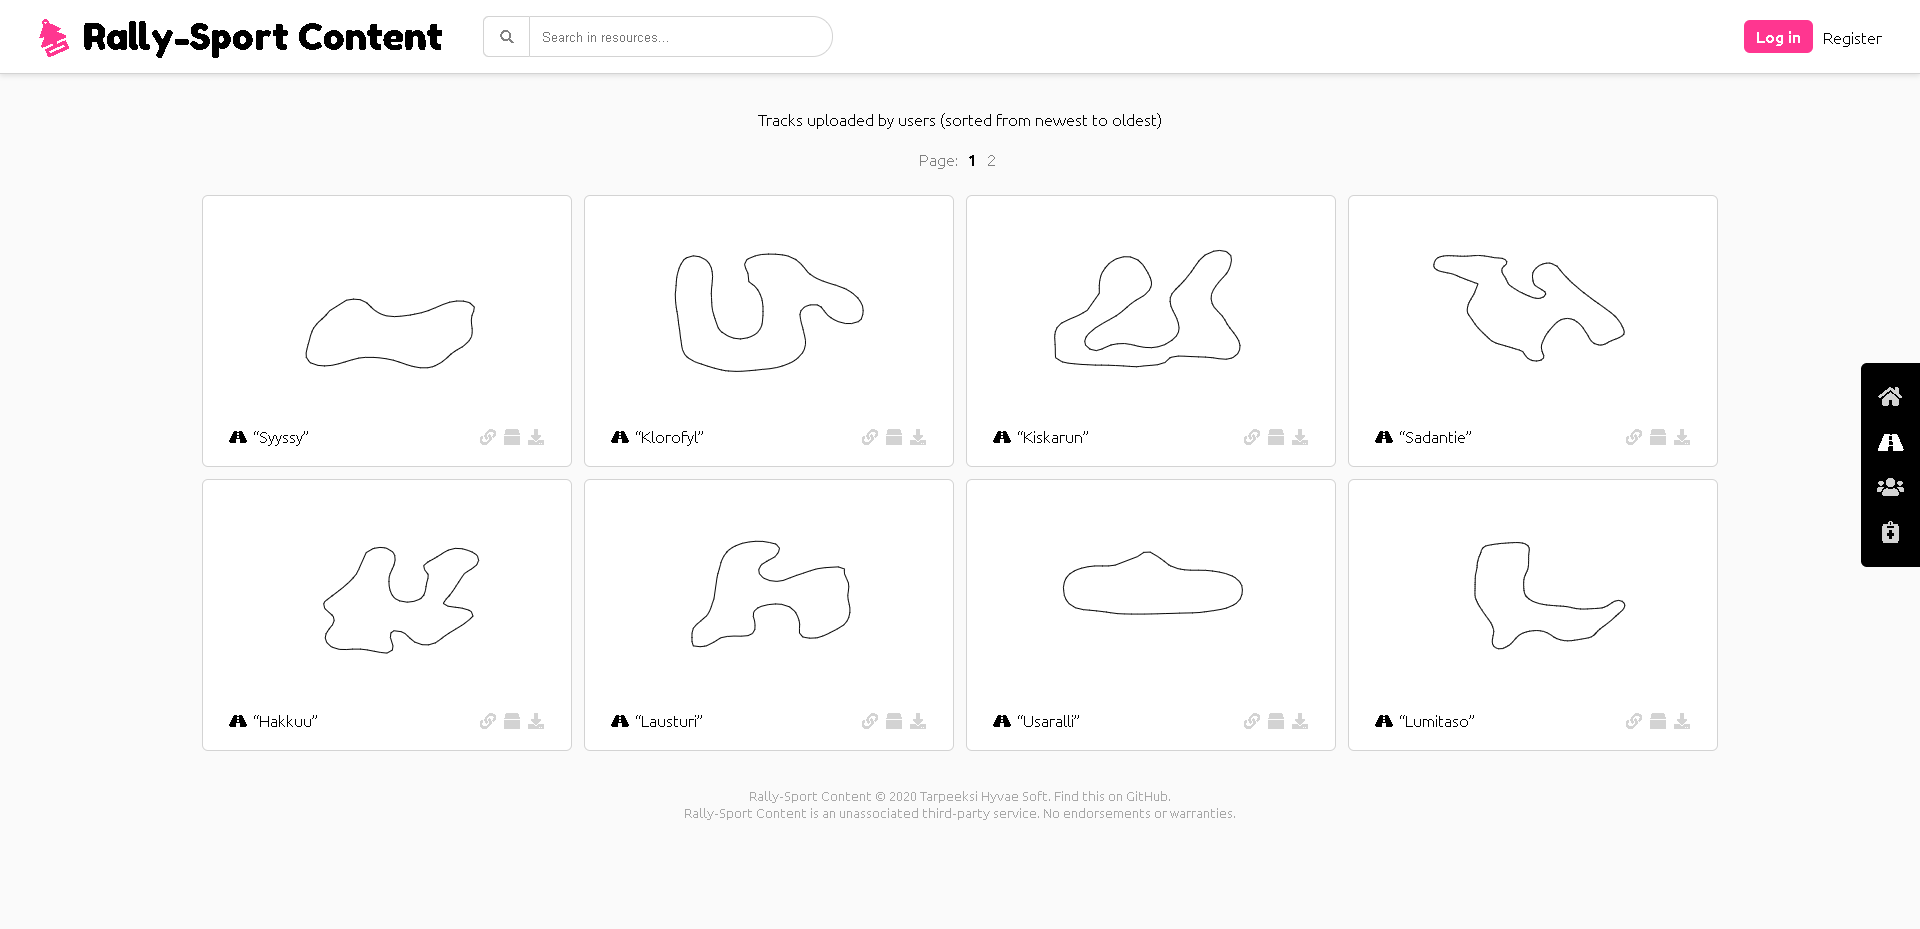
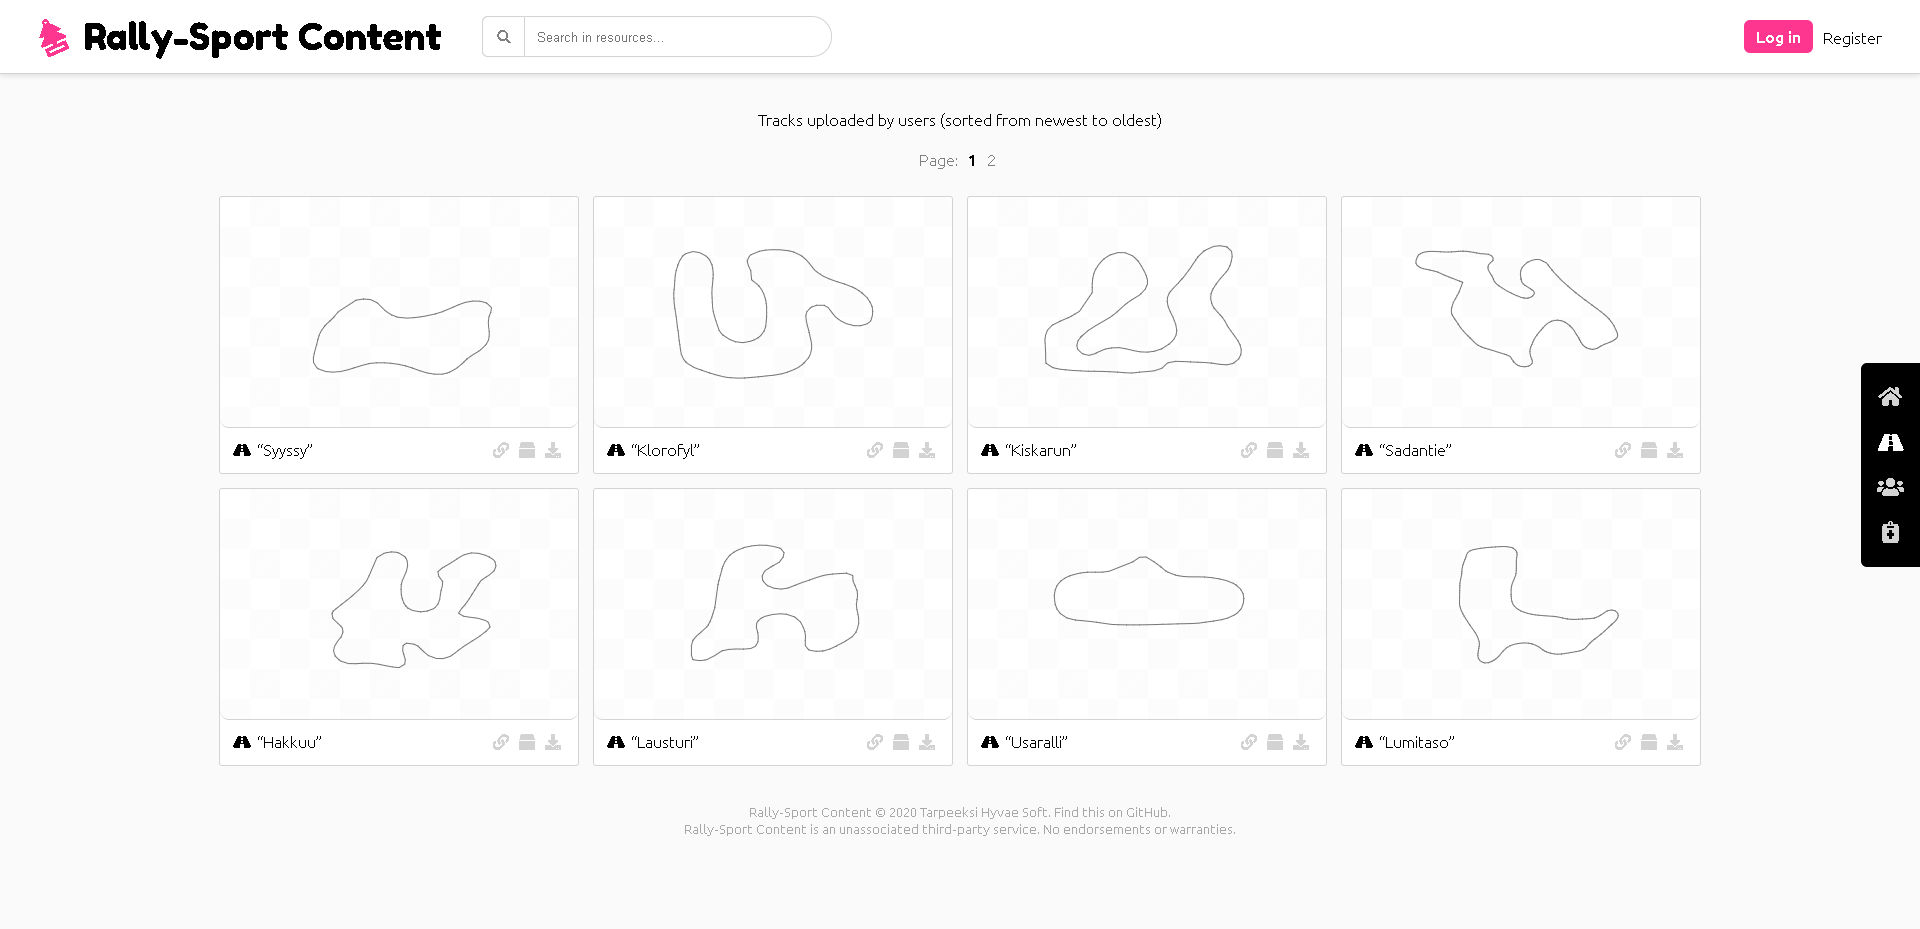
html-view: Tweak the layout some more
Resource metadata cards are made a bit more interesting to look at.

diff --git a/rallysport-content/api/common-scripts/html-page/html-page-components/css/resource-metadata.css b/rallysport-content/api/common-scripts/html-page/html-page-components/css/resource-metadata.css
@@ -1,11 +1,10 @@
 .resource-metadata
 {
-    padding: 10px 15px;
-    margin: 6px;
+    margin: 7px;
     text-align: left;
     display: inline-block;
     background-color: white;
-    border-radius: 6px;
+    border-radius: 3px;
     border: 1px solid lightgray;
 }
 
@@ -17,7 +16,7 @@
 
 .resource-metadata > .card > .info-box
 {
-    padding: 10px 0;
+    padding: 11px 2px 14px 2px;
     margin-left: 10px;
     text-align: left;
     position: relative;
@@ -36,12 +35,17 @@
     color: lightgray;
     right: 0;
     text-align: right;
-    margin-right: 10px;
+    margin-right: 15px;
 }
 
 .resource-metadata > .card > .info-box > .icon-row > a
 {
     text-decoration: none;
+}
+
+.resource-metadata > .card > .info-box > .icon-row > a + a
+{
+    margin-left: 2px;
 }
 
 .resource-metadata > .card > .info-box > .icon-row > a:hover
@@ -52,7 +56,17 @@
 
 .resource-metadata > .card > .media
 {
-    width: 338px;
-    height: 210px;
+    width: 358px;
+    height: 230px;
     border-radius: 0;
+
+    /* Checker pattern.*/
+    background-image: linear-gradient(45deg, rgba(0, 0, 0, 0.01) 25%, transparent 25%),
+                      linear-gradient(-45deg, rgba(0, 0, 0, 0.01) 25%, transparent 25%),
+                      linear-gradient(45deg, transparent 75%, rgba(0, 0, 0, 0.01) 75%),
+                      linear-gradient(-45deg, transparent 75%, rgba(0, 0, 0, 0.01) 75%);
+    background-size: 60px 60px;
+    background-position: 0 0, 0 30px, 30px -30px, -30px 0px;
+    border-bottom: 1px solid lightgray;
+    border-radius: 9px;
 }

diff --git a/rallysport-content/api/common-scripts/html-page/html-page-components/css/rallysport-content-header.css b/rallysport-content/api/common-scripts/html-page/html-page-components/css/rallysport-content-header.css
@@ -68,7 +68,7 @@ body
 
 #rallysport-content-header .search-widget .submit-button
 {
-    padding: 6px 16px;
+    padding: 6px 14px;
     border-radius: 6px 0 0 6px;
     border: none;
     color: gray;

diff --git a/rallysport-content/api/common-scripts/html-page/html-page-components/css/track-resource-metadata.css b/rallysport-content/api/common-scripts/html-page/html-page-components/css/track-resource-metadata.css
@@ -5,7 +5,7 @@
 
 .resource-metadata.track > .card > .media svg > polygon
 {
-    stroke: black;
-    stroke-width: 1.5;
+    stroke: #292929;
+    stroke-width: 1;
     fill: none;
 }
